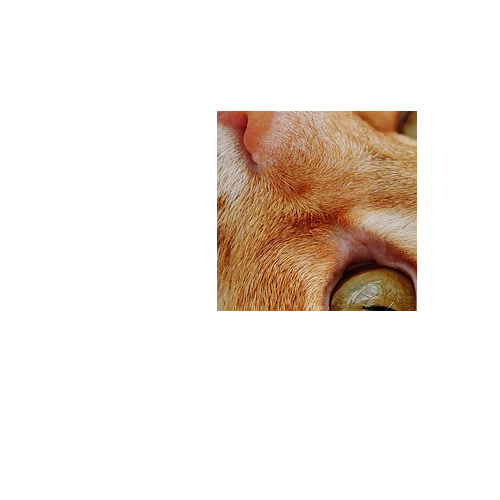
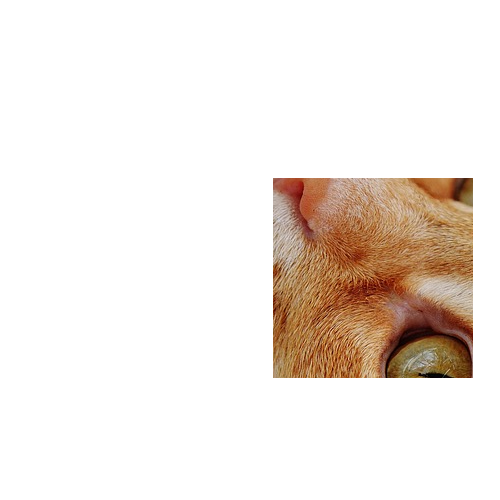
Updated the phase2 project file by adding comments for better reading

Changed region(s): [[0.42, 0.21, 0.96, 0.78]]

diff --git a/OpenCV Basis/Phase2Project__PhotoBoothApp.py b/OpenCV Basis/Phase2Project__PhotoBoothApp.py
@@ -1,0 +1,57 @@
+###DAY35: Phase2 Wrap-up project
+##PROJECT: Photo Booth App
+##CHALLENGE: Opens webcam -> Press 'g' to toggle grayscale -> Press 'r' to rotate view 90° -> Press 's' to save snapshot with text overlay showing timestamp
+# Press 'q' to quit
+
+import cv2
+from datetime import datetime
+
+cap = cv2.VideoCapture(0)
+if not cap.isOpened():
+    print("Cannot open camera")
+    exit()
+
+gray_mode = False
+rotation = 0
+ROTATIONS = [None, cv2.ROTATE_90_CLOCKWISE, cv2.ROTATE_180, cv2.ROTATE_90_COUNTERCLOCKWISE]
+
+while True:
+    ret, frame = cap.read()
+    if not ret:
+        break
+
+    view = frame
+    if gray_mode:
+        gray = cv2.cvtColor(frame, cv2.COLOR_BGR2GRAY)
+        view = cv2.cvtColor(gray, cv2.COLOR_GRAY2BGR)
+    if ROTATIONS[rotation] is not None:
+        view = cv2.rotate(view, ROTATIONS[rotation])
+
+    cv2.imshow("Photo Booth", view)
+
+    key = cv2.waitKey(1) & 0xFF
+    if key == ord('q'):
+        break
+    elif key == ord('g'):
+        gray_mode = not gray_mode
+    elif key == ord('r'):
+        #Use modular arithmetic to simplify the logic.The modulo operator, %, calculates the remainder after division.
+        #Because of % 4, the result cycles through the integers 0, 1, 2, and 3.
+        #The expression guarantees that the result stays within the valid index range for the four-element list which is ROTATIONS = [None, cv2.ROTATE_90_CLOCKWISE, cv2.ROTATE_180, cv2.ROTATE_90_COUNTERCLOCKWISE].
+        rotation = (rotation + 1) % 4
+    elif key == ord('s'):
+        #Use (.copy)to add text to the image so that text can't become part of the live image displayed by the application.
+        #view ─────> Current processed frame
+        #snap ─────> Independent copy of that frame
+        snap = view.copy()
+        #Obtaining the timestamp
+        now = datetime.now()                      #This obtains the current local date and time.
+        label = now.strftime("%Y-%m-%d %H:%M:%S") #The strftime() method formats the datetime object as a string.
+        h = snap.shape[0]
+        cv2.putText(snap, label, (10, h - 10), cv2.FONT_HERSHEY_SIMPLEX, 0.7, (0, 255, 255), 2)
+        filename = "photobooth_" + now.strftime("%Y%m%d_%H%M%S") + ".png"
+        cv2.imwrite(filename, snap)
+        print("Saved", filename)
+
+cap.release()
+cv2.destroyAllWindows()
